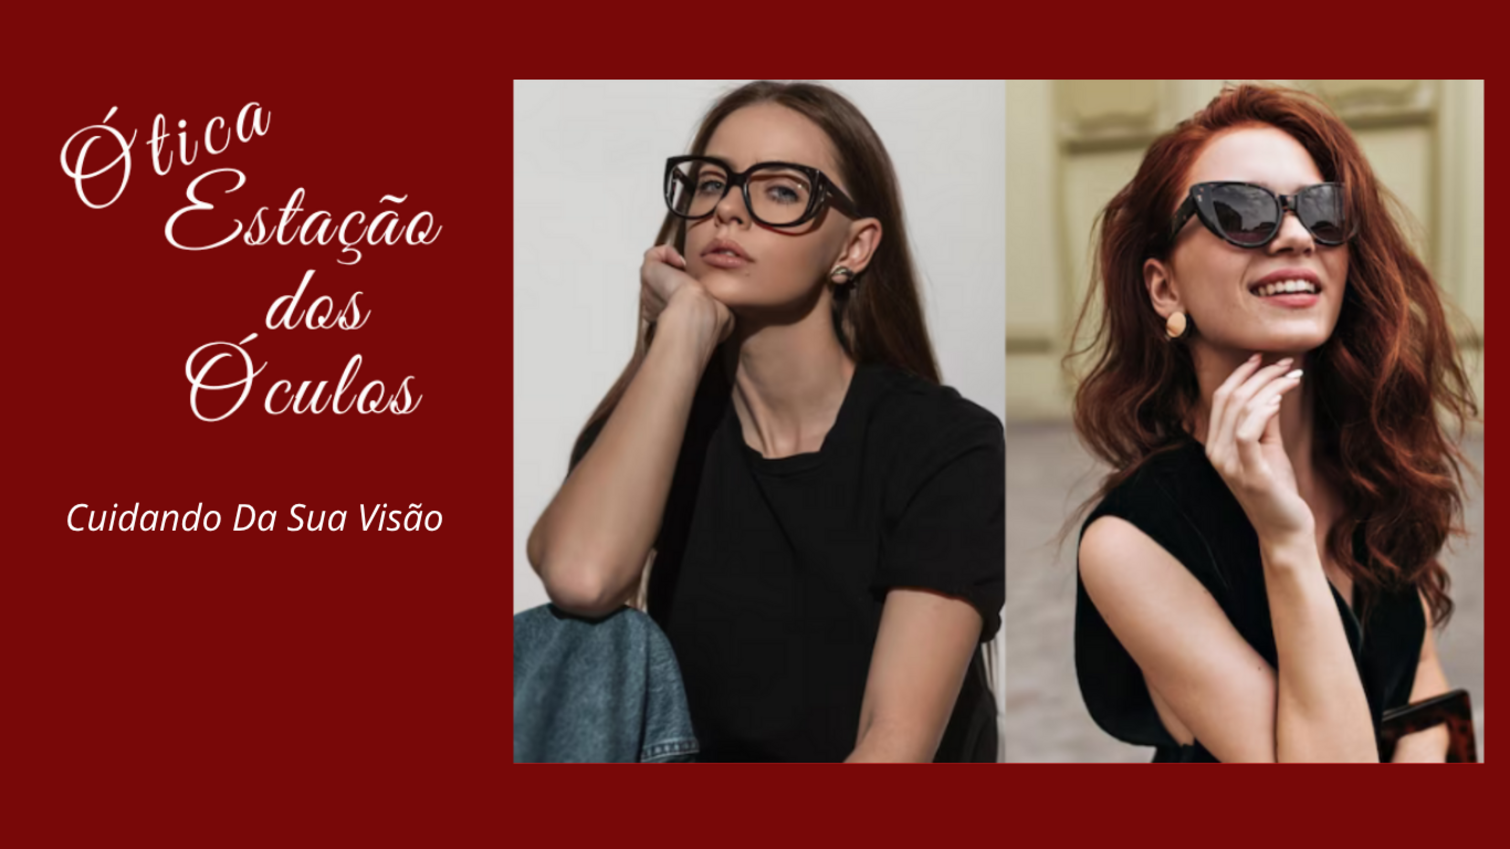
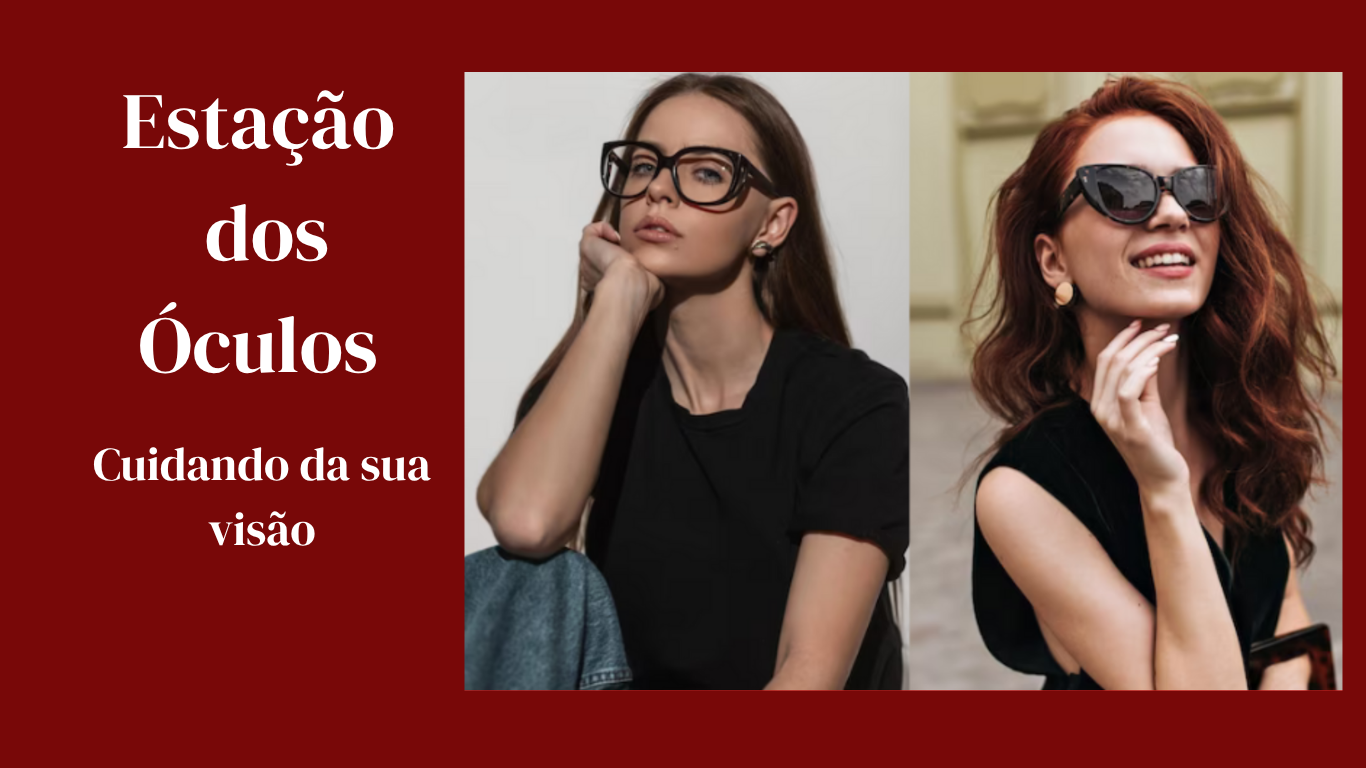
Add files via upload

diff --git a/index.html b/index.html
@@ -7,6 +7,7 @@
     <meta name="viewport" content="width=device-width, initial-scale=1.0">
     <link rel="stylesheet" href="style.css">
     <link rel="shortcut icon" href="Logo (1).png" type="image/x-icon">
+    <link rel="stylesheet" href="https://fonts.googleapis./css?family=DM Serif Display">
     <title>Estação dos Óculos</title>
 </head>
 
@@ -14,7 +15,7 @@
     <header>
         <input type="checkbox" name="check" id="toggler">
         <label for="toggler" class="fa-bars"><img src="fa-bars.png" alt=""></label>
-        <h1 id="nome">Estação Dos Óculos</h1>
+        <h1 id="nome">Estação dos Óculos</h1>
         <nav class="navbar">
             <a href="#home">Home</a>
             <a href="#about">Sobre</a>
@@ -32,9 +33,6 @@
     <section class="about" id="about">
         <h1 class="heading">Sobre <span>Nós</span></h1>
         <div class="row">
-            <div class="video-container">
-                <img src="About.png" alt="marcas vendidas">
-            </div>
             <div class="content">
                 <h3>Nosso Foco:</h3>
                 <P>Oferecer consultoria óptica especializada e personalizada para cada um
@@ -44,7 +42,9 @@
                 <p> <span>Ética <br> Respeito <br> Transparência <br>Comprometimento
                     </span>
                 </p>
-                <p>As melhores lentes com os melhores tratamentos, você encontra aqui!!</p>
+            </div>
+             <div class="video-container">
+                <img src="About.png" alt="marcas vendidas">
             </div>
         </div>
     </section>
@@ -105,7 +105,7 @@
                         <img src="whatsapp.png" alt="whatsapp">
                     </div>
                     <div class="content">
-                        <h3>(15 99815-6897)</h3>
+                        <h3>(15) 99815-6897</h3>
                     </div>
                 </a>
             </div>

diff --git a/style.css b/style.css
@@ -1,7 +1,7 @@
 *{
 margin: 0; padding: 0;
 box-sizing: border-box;
-font-family: Verdana, Geneva, Tahoma, sans-serif;
+ font-family: "DM Serif Display";
 outline: none;
 text-decoration: none;
 transition: .2s linear;
@@ -87,8 +87,6 @@ header .fa-bars{
 #nome{
     font-size: 2.5rem;
     color: #780808;
-    font-style: italic;
-    font-family:'Lucida Sans', 'Lucida Sans Regular', 'Lucida Grande', 'Lucida Sans Unicode', Geneva, Verdana, sans-serif;
 }
 
 .home{
@@ -132,7 +130,6 @@ header .fa-bars{
     border: 1.5rem solid #fff;
     border-radius: 5rem;
     box-shadow: 0 .5rem 1rem rgba(0,0,0,.1);
-    height: 100%;
     object-fit: cover;
 }
 
@@ -156,6 +153,7 @@ header .fa-bars{
     font-size: 3.5rem;
     color:#780808;
     line-height: 3.5rem;
+    font-weight: bold;
 }
 
 
@@ -268,6 +266,7 @@ header .fa-bars{
         padding: 1rem;
     }
 }
+
 @media (max-width:768px){
     header .fa-bars{
         display: block;
